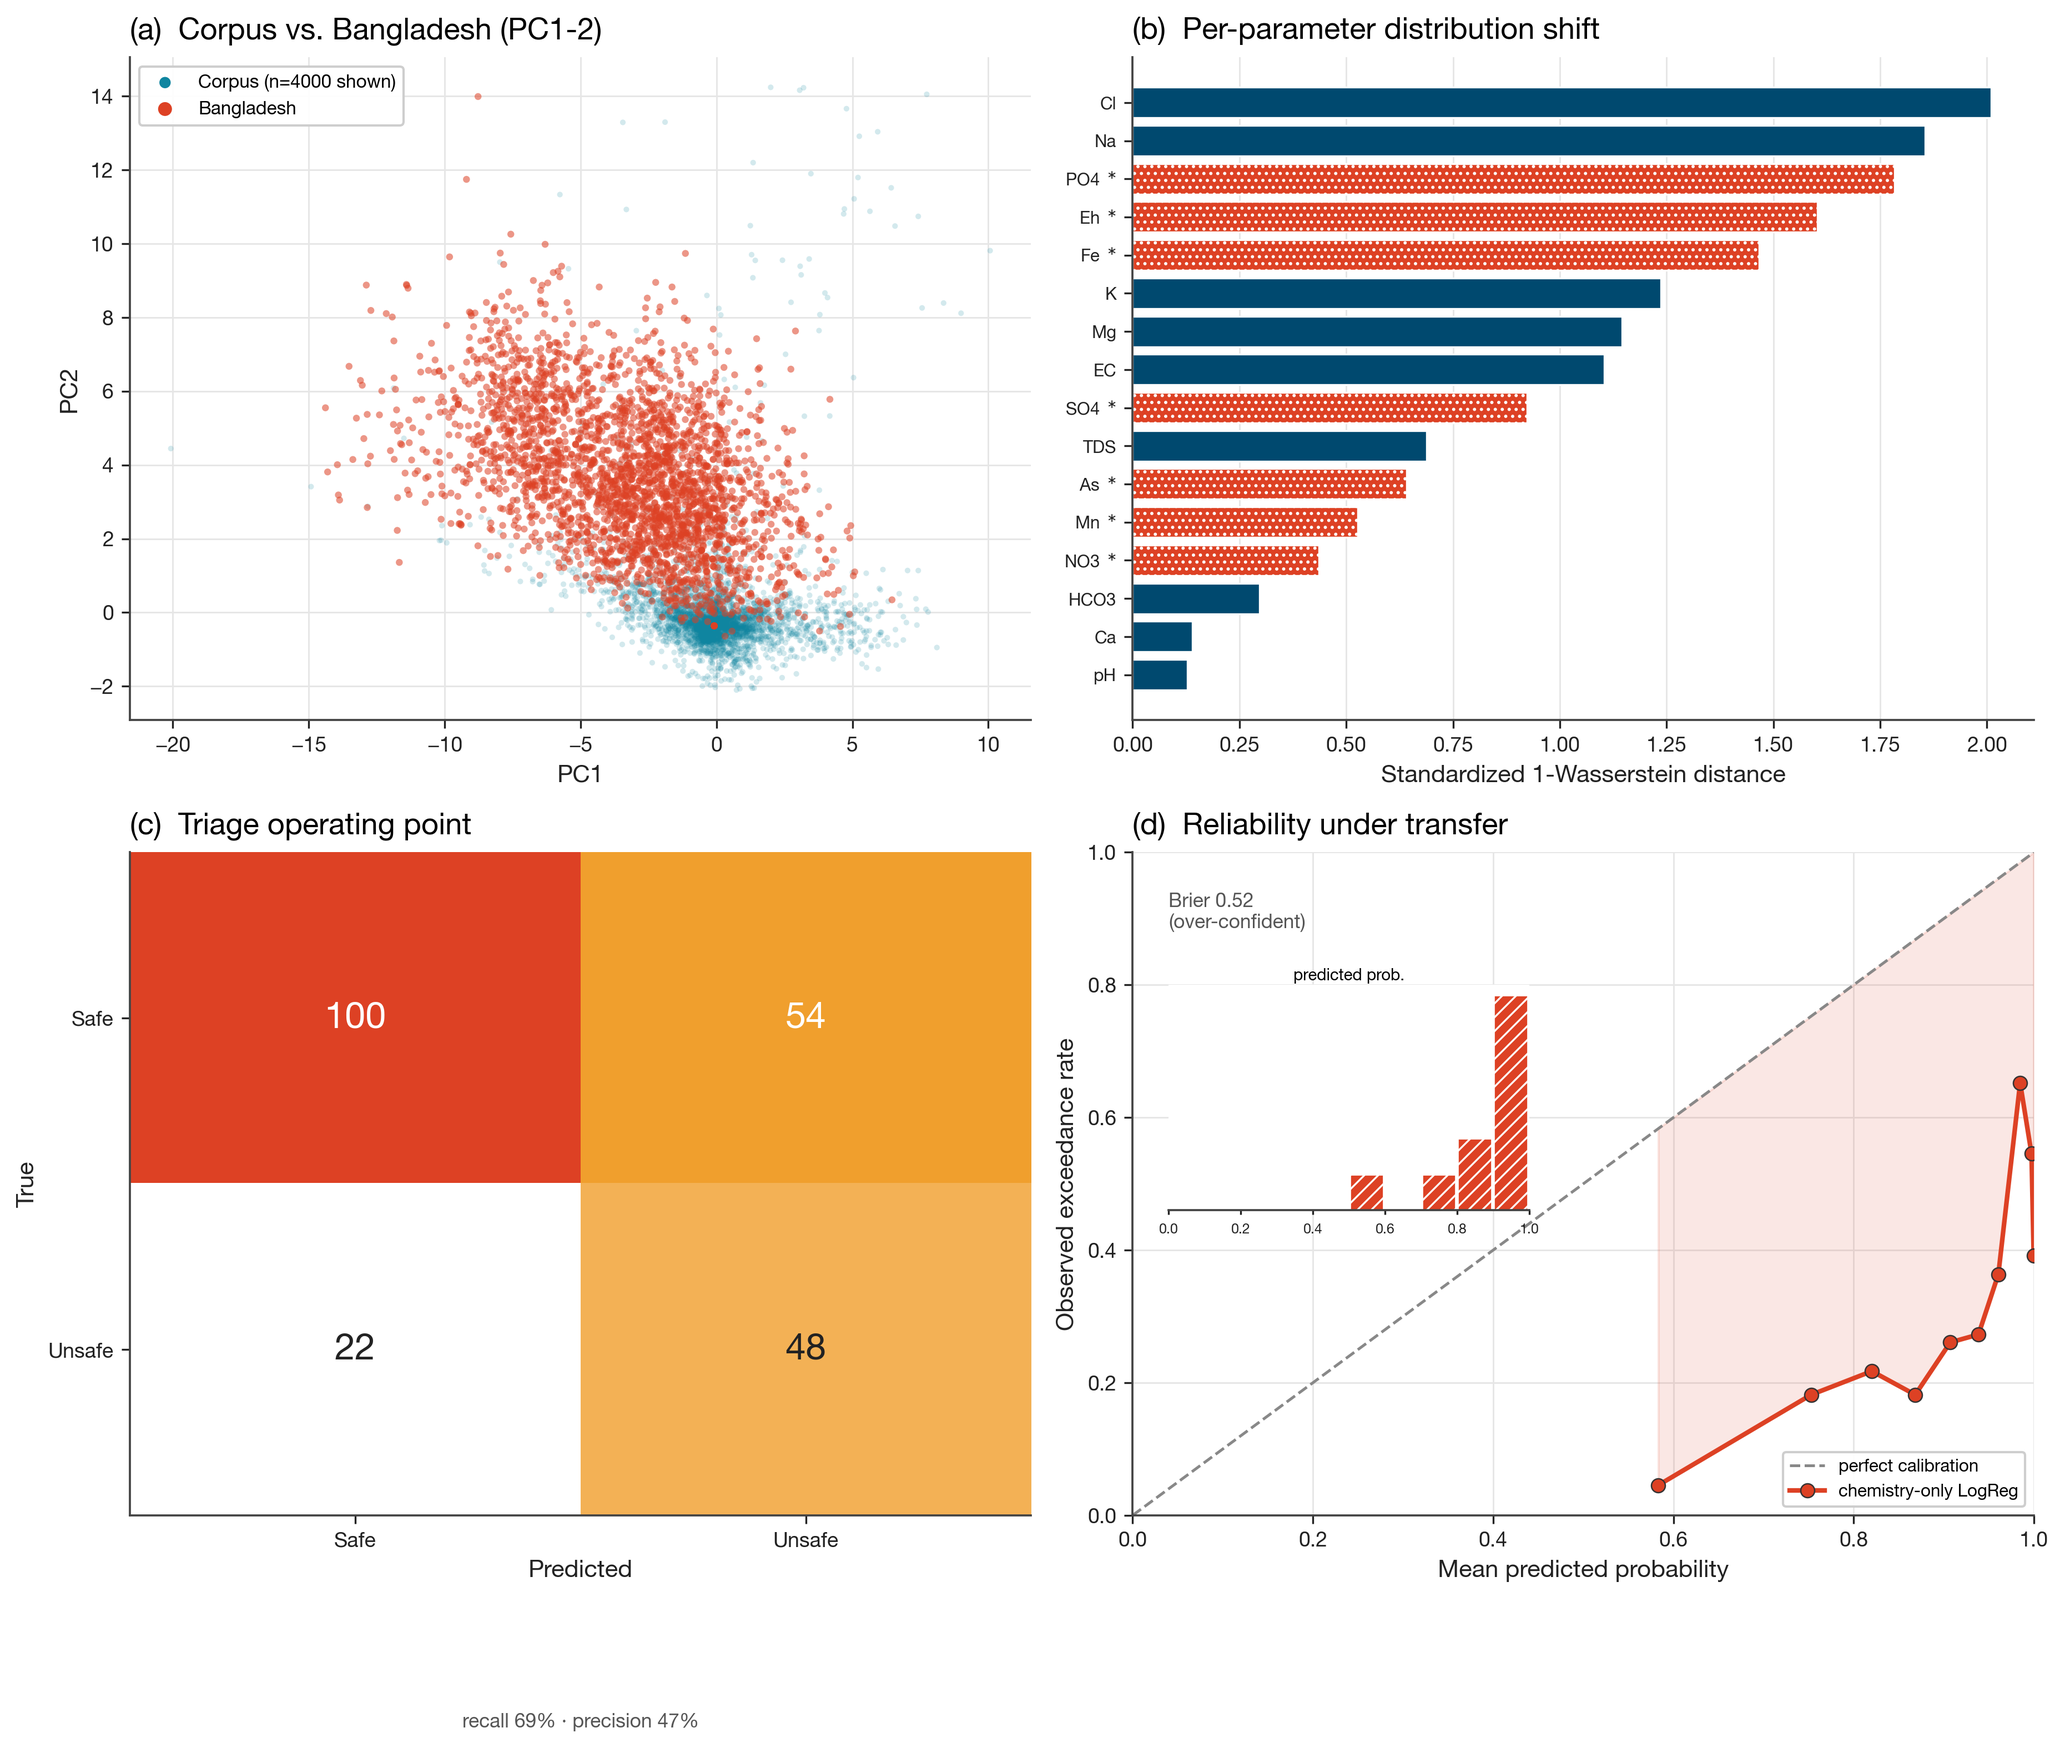
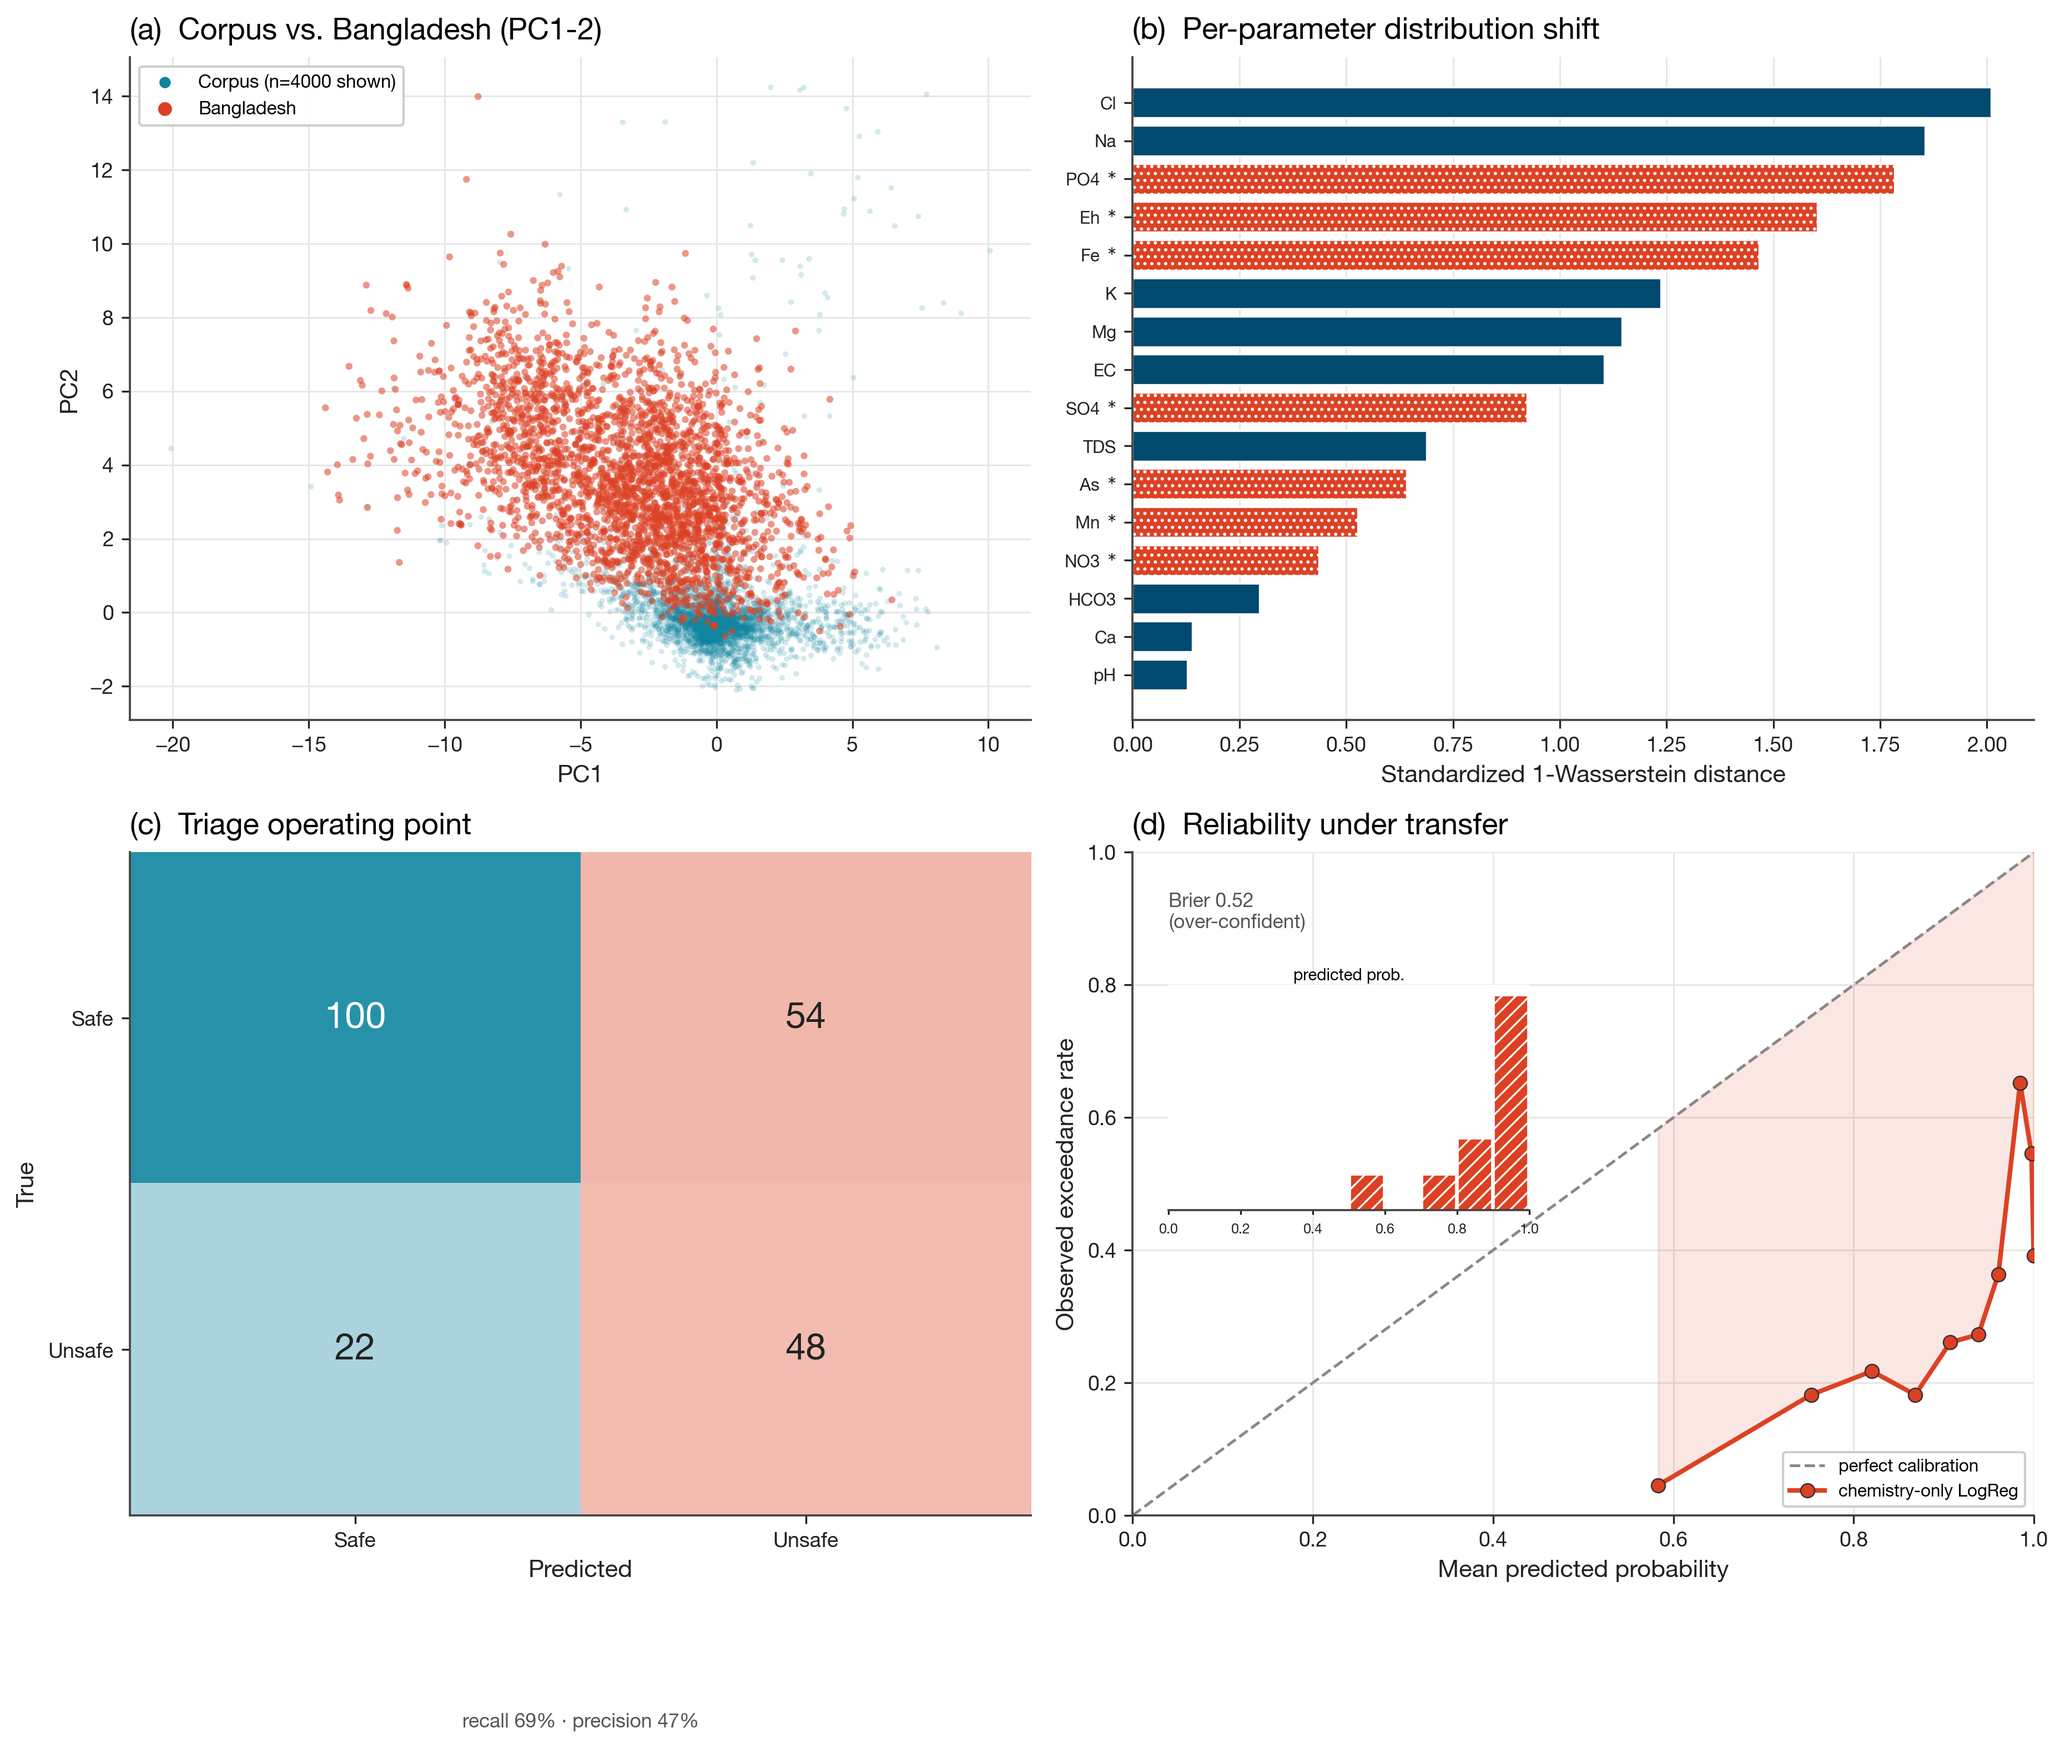
Fig 3(a): per-contaminant marker shapes (Bangladesh = bold edge); Fig 4(c): semantic confusion matrix (predicted-Safe teal, predicted-Unsafe light red)

Changed region(s): [[0.0624, 0.4668, 0.4989, 0.8714]]

diff --git a/src/41_composite_figures.py b/src/41_composite_figures.py
@@ -114,20 +114,22 @@ def build_F2():
 # ---------------------------------------------------------------- F3 benchmark
 def draw_transfer_distance(ax):
     rt = json.load(open("results/region_transfer.json"))["results"]
+    marks = {"As": "o", "Fe": "s", "Mn": "D", "PO4": "^", "U": "v", "NO3": "P", "F": "X"}
     for t in ["As", "Fe", "Mn", "PO4", "U", "NO3", "F"]:
         pts = [(c["energy_distance_4d"], c["transfer_auc_mean"], c["held_out_region"])
                for c in rt if c["target"] == t and c.get("energy_distance_4d") is not None]
         gw = [(x, y) for x, y, r in pts if r != "Bangladesh"]
         bd = [(x, y) for x, y, r in pts if r == "Bangladesh"]
         if gw:
-            ax.scatter([x for x, _ in gw], [y for _, y in gw], s=34, color=fs.color(t),
-                       edgecolor="white", linewidth=0.5, alpha=0.9, label=t, zorder=3)
+            ax.scatter([x for x, _ in gw], [y for _, y in gw], s=40, color=fs.color(t),
+                       marker=marks[t], edgecolor="#333", linewidth=0.5, alpha=0.9,
+                       label=t, zorder=3)
         if bd:
-            ax.scatter([x for x, _ in bd], [y for _, y in bd], s=120, color=fs.color(t),
-                       edgecolor="#222", linewidth=0.8, marker="*", zorder=4)
+            ax.scatter([x for x, _ in bd], [y for _, y in bd], s=150, color=fs.color(t),
+                       marker=marks[t], edgecolor="#000", linewidth=1.3, zorder=4)
     ax.axhline(0.5, color="#999", ls=":", lw=1.0)
     ax.set_xlabel("Distribution distance (4-D energy)"); ax.set_ylabel("Chemistry-only transfer AUC")
-    ax.legend(title="Contaminant", loc="upper right", fontsize=7, ncol=2)
+    ax.legend(title="Contaminant (bold edge = Bangladesh)", loc="upper right", fontsize=7, ncol=2)
 
 
 def draw_ft_vs_rf_bars(ax):
@@ -258,16 +260,26 @@ def draw_w1(ax):
 
 
 def draw_confusion(ax):
-    from matplotlib.colors import LinearSegmentedColormap
+    import matplotlib.colors as mcolors
     cm = json.load(open("results/calibration_logreg_as_chemonly.json"))["avg_confusion_at_f1_best"]
     M = np.array([[cm["tn"], cm["fp"]], [cm["fn"], cm["tp"]]])
-    # palette-matched warm sequential colormap (white -> orange -> red), the
-    # prominent colour used across Fig 4
-    theme_cmap = LinearSegmentedColormap.from_list("theme_warm", ["#ffffff", fs.ORANGE, fs.RED])
-    im = ax.imshow(M, cmap=theme_cmap, aspect="auto")  # fill cell width like other panels
+    # semantic colouring: predicted-Safe column = teal, predicted-Unsafe column =
+    # light red; cell intensity (alpha) scaled by count
+    teal = np.array(mcolors.to_rgb(fs.TEAL))
+    lred = np.array(mcolors.to_rgb("#E8836F"))   # light red
+    mx = M.max()
+    rgba = np.ones((2, 2, 4))
+    for i in range(2):
+        for j in range(2):
+            base = teal if j == 0 else lred
+            a = 0.20 + 0.70 * (M[i, j] / mx)
+            rgba[i, j, :3] = 1 - a * (1 - base)   # blend base over white
+            rgba[i, j, 3] = 1.0
+    ax.imshow(rgba, aspect="auto")
     for (i, j), v in np.ndenumerate(M):
+        dark = M[i, j] > 0.55 * mx
         ax.text(j, i, f"{int(round(v))}", ha="center", va="center", fontsize=16,
-                fontweight="bold", color="white" if v > M.max()*0.5 else "#222")
+                fontweight="bold", color="white" if dark else "#222")
     ax.set_xticks([0, 1]); ax.set_xticklabels(["Safe", "Unsafe"]); ax.set_xlabel("Predicted")
     ax.set_yticks([0, 1]); ax.set_yticklabels(["Safe", "Unsafe"]); ax.set_ylabel("True")
     ax.text(0.5, -0.32, f"recall {cm['recall']:.0%} · precision {cm['precision']:.0%}",
